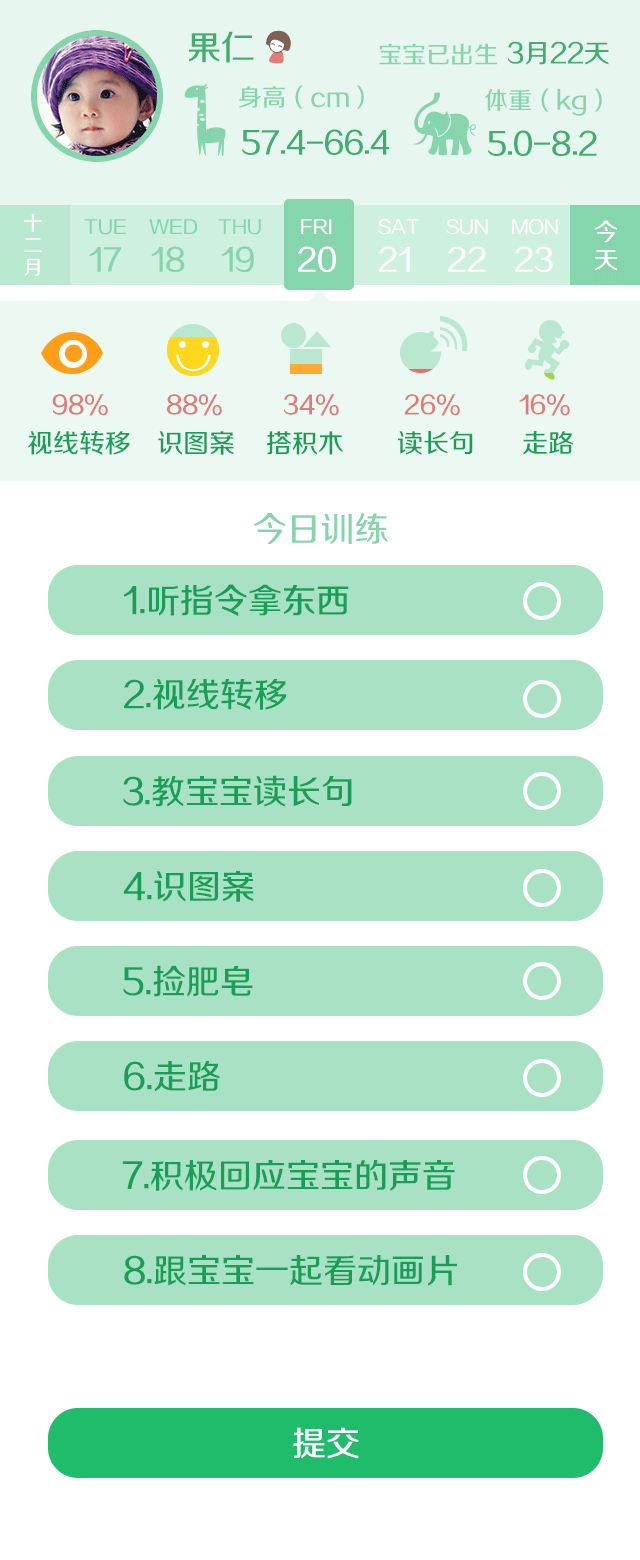
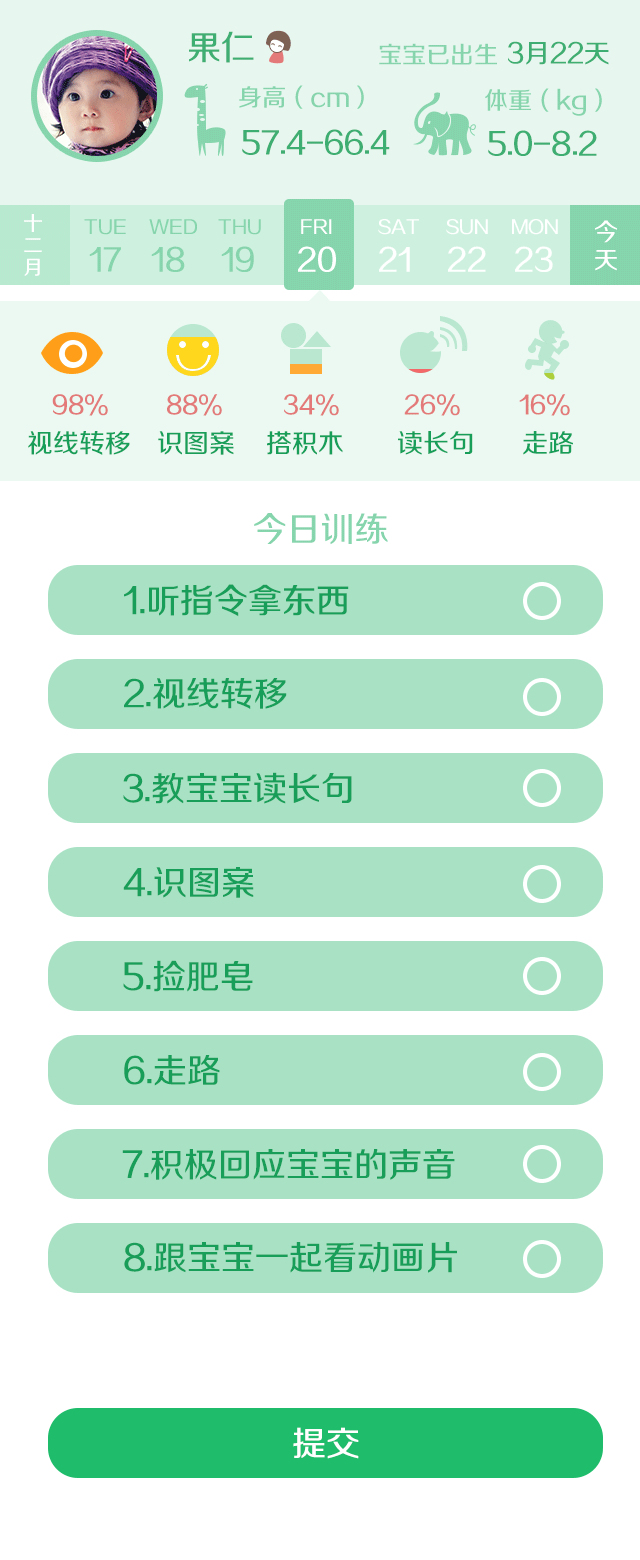
create

diff --git a/css/style.css b/css/style.css
@@ -133,11 +133,11 @@ body,
 ================================================================*/
 
 /* check */
-.page_index .check{ padding-top:283px; margin:0 18.5px 0 24px;}
-.page_index .check a{ display:block; height:35px; margin-bottom:12.5px; border-radius:16px}
+.page_index .check{ padding-top:283px; margin:0 18px 0 24px;}
+.page_index .check a{ display:block; height:35px; margin-bottom:12px; border-radius:16px}
 .page_index .check a:active{ background-color:rgba(0,0,0,.1);}
 .page_index .check .checked{ background:url(../images/check.png) 235px 50% no-repeat; background-size:30px 30px;}
-.page_index .submit{ height:35px; display:block; margin:51px 18.5px 0 24px; border-radius:16px}
+.page_index .submit{ height:35px; display:block; margin:57px 18px 0 24px; border-radius:16px}
 .page_index .submit:active{ background-color:rgba(0,0,0,.1);}
 
 
